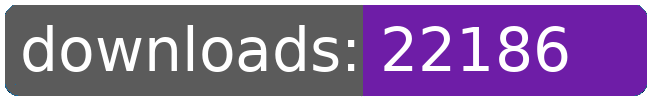
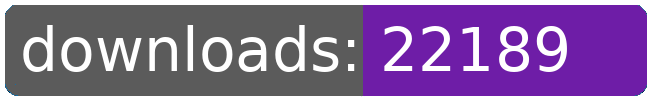
dl log written

Changed region(s): [[0.8, 0.24, 0.8923, 0.72]]

diff --git a/README.md b/README.md
@@ -21,8 +21,8 @@
 		<td>1509</td>
 		<td>1534</td>
 		<td>1564</td>
-		<td>1581</td>
-		<td>+ 17</td>
+		<td>1582</td>
+		<td>+ 18</td>
 	</tr>
 	<tr>
 		<td>aberrant.kahet.outfitter</td>
@@ -197,8 +197,8 @@
 		<td>285</td>
 		<td>311</td>
 		<td>345</td>
-		<td>362</td>
-		<td>+ 17</td>
+		<td>364</td>
+		<td>+ 19</td>
 	</tr>
 	<tr>
 		<td>tributequarg</td>
@@ -252,8 +252,8 @@
 		<td></td>
 		<td></td>
 		<td></td>
-		<td>22186</td>
-		<td>317</td>
+		<td>22189</td>
+		<td>320</td>
 	</tr>
 </table>
 </sub></sup>
@@ -311,8 +311,8 @@
 		<td>1509</td>
 		<td>1534</td>
 		<td>1564</td>
-		<td>1581</td>
-		<td>+ 17</td>
+		<td>1582</td>
+		<td>+ 18</td>
 	</tr>
 	<tr>
 		<td>purchase.bactrian</td>
@@ -465,8 +465,8 @@
 		<td>285</td>
 		<td>311</td>
 		<td>345</td>
-		<td>362</td>
-		<td>+ 17</td>
+		<td>364</td>
+		<td>+ 19</td>
 	</tr>
 	<tr>
 		<td>avgi.outfitter</td>
@@ -509,8 +509,8 @@
 		<td></td>
 		<td></td>
 		<td></td>
-		<td>22186</td>
-		<td>317</td>
+		<td>22189</td>
+		<td>320</td>
 	</tr>
 </table>
 </sub></sup>
@@ -538,7 +538,7 @@
 		<td>26</td>
 		<td>22</td>
 		<td>10</td>
-		<td>8</td>
+		<td>9</td>
 	</tr>
 	<tr>
 		<td>unique visitors</td>
@@ -550,7 +550,7 @@
 		<td>7</td>
 		<td>7</td>
 		<td>8</td>
-		<td>5</td>
+		<td>6</td>
 	</tr>
 </table>
 <br>
@@ -564,8 +564,8 @@
 	</tr>
 	<tr>
 		<td>2025-10-15</td>
-		<td>2644</td>
-		<td>552</td>
+		<td>2645</td>
+		<td>553</td>
 		<td>192</td>
 		<td>21</td>
 	</tr>
@@ -578,8 +578,8 @@
 	</tr>
 	<tr>
 		<td>57</td>
-		<td>46.39</td>
-		<td>9.68</td>
+		<td>46.40</td>
+		<td>9.70</td>
 		<td></td>
 		<td></td>
 	</tr>
